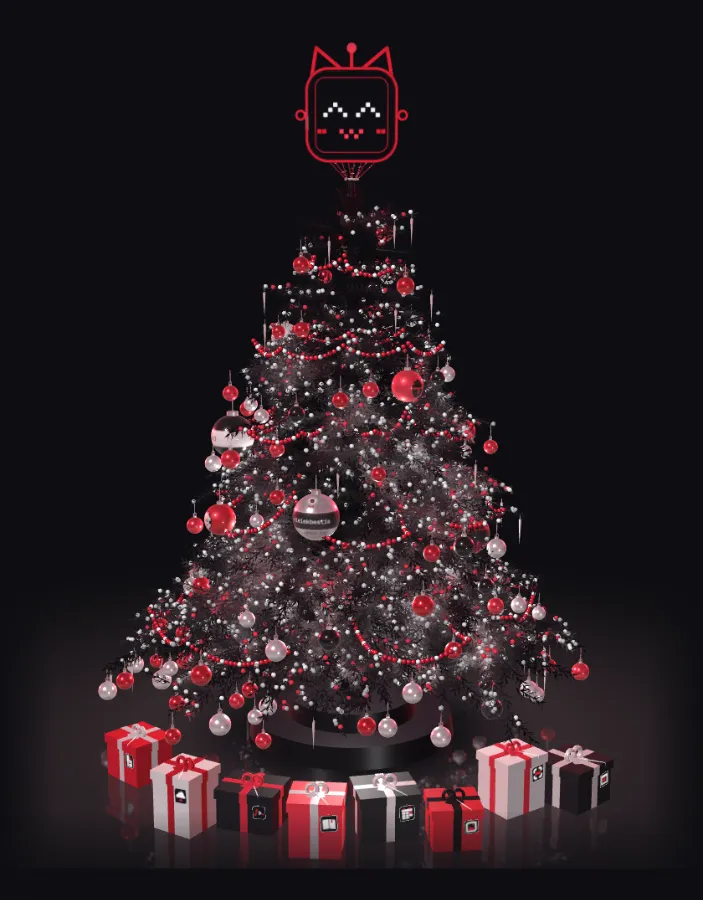
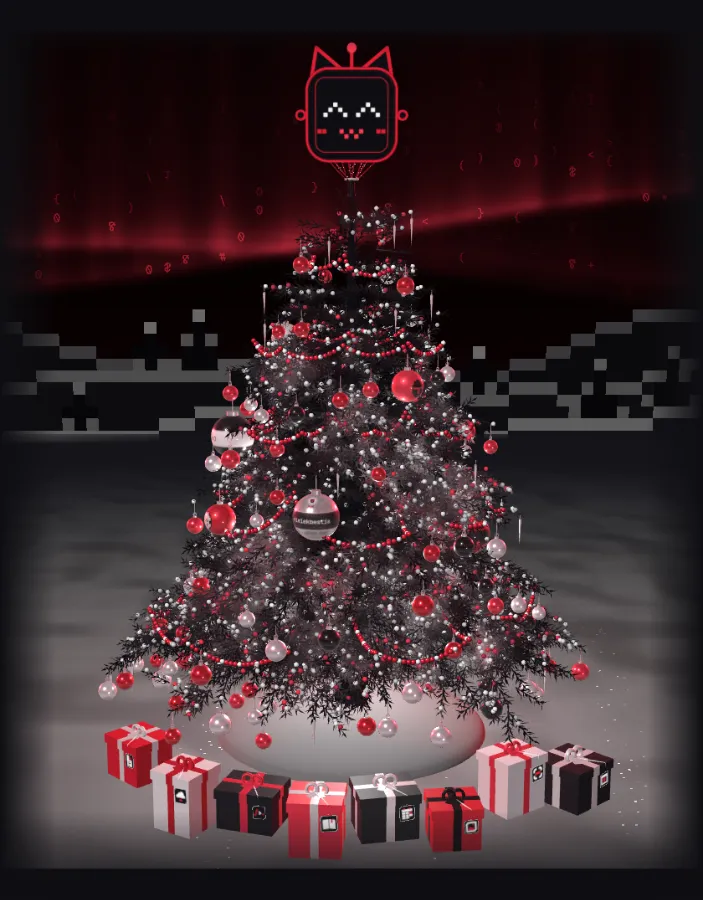
Choinka v12: na zewnatrz, snieg pod choinka, nowa czerwona zorza, obraz na czas ladowania

diff --git a/choinka/choinka.js b/choinka/choinka.js
@@ -135,40 +135,49 @@
       ${GLSL_PALETA}
       varying vec2 vUv; uniform float uT, uAsp, uBoost;
       ${GLSL_SZUM}
+      // v12.1 (19.11 maisa: „zorza meh, zrób lepszą, czerwoną”): prawdziwa zorza polarna zamiast pionowych kolumn.
+      // Trzy wstęgi ciągną się przez całe niebo w łagodnych esach; każda ma ostrą, jasną dolną krawędź i ciało z miękkich
+      // promieni gasnących ku górze. Wzdłuż wstęg płyną fale jasności, w zgięciach fałdu wstęga jaśnieje, miejscami się rwie.
+      float krawedz(float x, float t, float fk){ // dolna krawędź wstęgi k (wysokość na ekranie)
+        return 0.64 + 0.085 * fk + (0.12 - 0.03 * fk) * sin(x * 1.25 + t * 0.045 + fk * 2.1) + 0.04 * sin(x * 3.2 - t * 0.07 + fk * 5.0)
+             + (vn(vec2(x * 0.9 + fk * 9.0, t * 0.03)) - 0.5) * 0.09;
+      }
       float kurtyny(vec2 uv){
         float t = uT, x = uv.x * uAsp, I = 0.0;
-        for(int k=0;k<2;k++){
+        for(int k=0;k<3;k++){
           float fk = float(k);
-          // dolna krawędź kurtyny: fałdy w kilku skalach, płyną powoli
-          float a1 = x * 2.3 + t * 0.09 + fk * 2.0, a2 = x * 5.3 - t * 0.13 + fk * 4.1;
-          float y0 = 0.70 - 0.13 * fk + 0.05 * sin(a1) + 0.022 * sin(a2) + (vn(vec2(x * 1.6 + fk * 5.0, t * 0.05)) - 0.5) * 0.08;
-          float stroma = abs(0.115 * cos(a1) + 0.117 * cos(a2));      // w zgięciu fałdu kurtyna jest widziana z boku: jaśniej
-          float d = uv.y - y0;
-          float kr = smoothstep(-0.012, 0.004, d);
-          // promienie: cienkie pionowe smugi w grupach (odcinki kurtyny), każda innej długości; dryfują powoli w bok
-          float xs = x * (42.0 + fk * 9.0) + fk * 31.0 + 1.5 * sin(x * 1.7 + t * 0.07);
-          float grupa = smoothstep(0.3, 0.75, vn(vec2(x * 2.4 + fk * 7.0, t * 0.06)));
-          float pr = pow(vn(vec2(xs, t * 0.1)), 4.0) * 2.2 * grupa;
-          float dl = 1.8 + 4.5 * vn(vec2(xs * 0.5 + 3.0, fk));                    // długość promienia
-          I += kr * (0.05 * exp(-max(d, 0.0) * 16.0) + pr * (0.6 + stroma * 3.5) * exp(-max(d, 0.0) * (dl + fk))) * (1.0 - 0.5 * fk); // druga, niższa kurtyna słabsza: bez ściany za drzewem
+          float y0 = krawedz(x, t, fk), d = uv.y - y0;
+          float stroma = clamp(abs(krawedz(x + 0.02, t, fk) - y0) * 45.0, 0.0, 1.6); // zgięcie fałdu: kurtyna widziana z boku, jaśniej
+          float dol = smoothstep(-0.018, 0.006, d);                                     // ostra dolna granica
+          float wys = 0.16 + 0.26 * vn(vec2(x * 1.1 + fk * 3.0, t * 0.04));             // wysokość kurtyny zmienia się wzdłuż wstęgi
+          float cialo = exp(-max(d, 0.0) / wys);
+          float kier = mod(fk, 2.0) * 2.0 - 1.0;                                        // sąsiednie wstęgi płyną w przeciwne strony
+          float pr = 0.3 + 0.7 * pow(vn(vec2(x * (24.0 + fk * 7.0) + t * 0.22 * kier, t * 0.12 + fk)), 1.6); // pionowe promienie
+          pr *= 0.7 + 0.3 * vn(vec2(x * 70.0 + fk * 13.0, t * 0.5));
+          float fala = 0.5 + 0.5 * sin(x * 2.1 - t * 0.32 * kier + fk * 1.7 + 2.5 * vn(vec2(x * 0.5, t * 0.05))); // fale jasności wzdłuż wstęgi
+          float sila = (1.0 - 0.3 * fk) * smoothstep(0.25, 0.65, vn(vec2(x * 0.55 + fk * 4.0, t * 0.02)) + 0.2); // wstęga miejscami się rwie
+          float m = dol * sila * (0.35 + 0.65 * fala);
+          I += m * cialo * pr * (1.3 + stroma * 1.2);
+          I += m * exp(-max(d, 0.0) * 45.0) * 0.8;                                     // jasny rąbek dolnej krawędzi
         }
+        I += 0.14 * exp(-abs(uv.y - 0.6) * 6.0);                                       // czerwona łuna nad horyzontem
         return I;
       }
       void main(){
         float I = min(kurtyny(vUv) * (1.0 + uBoost * 1.3), 1.7);          // przycięte: przy głośnej muzyce zorza jaśnieje, ale nie bieleje
-        vec3 c = mix(KREW, HOT, smoothstep(0.25, 0.95, I)); c = mix(c, KOSC, 0.3 * smoothstep(1.0, 1.7, I));
-        gl_FragColor = vec4(c * I * 0.42, I / 1.7);                       // najjaśniej ok. 0,7 krwi/hot: daleko od bieli
+        vec3 c = mix(KREW * 0.55, HOT, smoothstep(0.35, 1.05, I)); c = mix(c, KOSC, 0.32 * smoothstep(1.1, 1.7, I));
+        gl_FragColor = vec4(c * I * 0.66, I / 1.7);                       // jaśniej niż v11, ale rąbek zostaje różowy, nie biały
       }`,
   });
   { const q = new T.Mesh(new T.PlaneGeometry(2, 2), zorzaMat); q.frustumCulled = false; zorzaScena.add(q); }
   const zorzaZnakiMat = new T.ShaderMaterial({ // przebieg 2: pełny ekran, tło z tekstury i spadające znaki
     depthTest: false, depthWrite: false,
-    uniforms: { uT: zorzaMat.uniforms.uT, uRes: { value: new T.Vector2(1280, 800) }, uCell: { value: 22 }, uZ: { value: zorzaRT.texture }, uGlyph: { value: texGlif }, uZnaki: { value: 1 } },
+    uniforms: { uT: zorzaMat.uniforms.uT, uRes: { value: new T.Vector2(1280, 800) }, uCell: { value: 22 }, uZ: { value: zorzaRT.texture }, uGlyph: { value: texGlif }, uZnaki: { value: 1 }, uHero: { value: /hero/.test(location.hash) ? 1 : 0 } },
     vertexShader: "varying vec2 vUv; void main(){ vUv = uv; gl_Position = vec4(position.xy, 1.0, 1.0); }",
     fragmentShader: `
       precision highp float;
       ${GLSL_PALETA}
-      varying vec2 vUv; uniform float uT, uCell, uZnaki; uniform vec2 uRes; uniform sampler2D uZ, uGlyph;
+      varying vec2 vUv; uniform float uT, uCell, uZnaki, uHero; uniform vec2 uRes; uniform sampler2D uZ, uGlyph;
       ${GLSL_SZUM}
       void main(){
         vec3 baza = texture2D(uZ, vUv).rgb;
@@ -179,13 +188,15 @@
         vec2 id = vec2(kol, floor(yy)), f = vec2(fract(vUv.x * cells.x), fract(yy));
         vec2 sc = vec2((kol + 0.5) / cells.x, (id.y + 0.5 - uT * sp) / cells.y); // środek komórki na ekranie
         float Ic = texture2D(uZ, sc).a * 1.7;
-        float jest = step(0.38, h21(id + 7.3)) * uZnaki;              // przerwy w kolumnie: znaki jadą ciągami, nie pełną ścianą
+        float jest = step(0.74, h21(id + 7.3)) * uZnaki * 0.6;        // v12.1: znaki kodu rzadkie i ciche, pierwsza gra zorza
         float gi = floor(h21(id + floor(uT * 0.4 * (0.3 + h21(id.yx)))) * 16.0);
         vec2 gc = vec2(mod(gi, 4.0), floor(gi / 4.0));
         float gl = texture2D(uGlyph, (gc + vec2(f.x, 1.0 - f.y)) / 4.0).r;
         float ga = gl * smoothstep(0.16, 0.6, Ic) * jest;
         vec3 gk = mix(KREW, HOT, smoothstep(0.3, 0.9, Ic)); gk = mix(gk, KOSC, smoothstep(0.9, 1.5, Ic));
-        gl_FragColor = vec4(mix(baza, gk, ga * 0.95), 1.0);
+        // v12 (19.11, na zewnątrz): niebo na cały kadr; w #hero lewa część (h1 strony) przygaszona, żeby zorza i znaki nie szły za tekstem
+        float tlum = mix(1.0, mix(0.22, 1.0, smoothstep(0.3, 0.62, vUv.x)), uHero);
+        gl_FragColor = vec4(mix(baza, gk, ga * 0.95) * tlum, 1.0);
       }`,
   });
   const zorza = new T.Mesh(new T.PlaneGeometry(2, 2), zorzaZnakiMat);
@@ -227,8 +238,7 @@
     for (let r = 0; r < 4; r++) for (let a = r; a < 7 - r; a++) blok(hx + a, hp - 5 - r, r === 0 ? C.kosc : C.krew);
     blok(hx + 2, hp - 3, C.hot); blok(hx + 4, hp - 3, C.hot); blok(hx + 2, hp - 2, C.hot, 0.7); blok(hx + 4, hp - 2, C.hot, 0.7);
     for (let i = 0; i < 26; i++) blok(Math.floor(Rk() * kol), Math.floor(Rk() * wier * 0.55), C.kosc, 0.35 + Rk() * 0.5); // płatki
-    g.fillStyle = C.kosc; g.globalAlpha = 0.9; g.fillRect(0, krajC.height - 3, krajC.width, 3); g.globalAlpha = 1; // śnieg na parapecie, od środka szyby
-  })();
+  })(); // v12: bez parapetu (nie ma już okna)
   const texKraj = new T.CanvasTexture(krajC); texKraj.magFilter = T.NearestFilter; texKraj.minFilter = T.LinearFilter; texKraj.generateMipmaps = false;
   const sciana = new T.Mesh(new T.PlaneGeometry(90, 44), new T.ShaderMaterial({
     uniforms: { uKraj: { value: texKraj }, uOkno: { value: new T.Vector4(OKNO.x0, OKNO.y0, OKNO.x1, OKNO.y1) }, uB: { value: OKNO.B }, uSw: U.uSw },
@@ -258,7 +268,50 @@
       }`,
   }));
   sciana.position.set(0, 22, OKNO.z); sciana.renderOrder = -11; scena.add(sciana);
-  zorzaZnakiMat.depthTest = true; // zorza (z = 1, za wszystkim) rysuje się tylko tam, gdzie ściana nie zapisała głębi: w szybie
+  // v12 (19.11 maisa: „na zewnątrz, śnieg pod choinką”): ściany i okna nie ma; zorza na całym niebie, klockowy krajobraz
+  // stoi daleko na horyzoncie, a pod drzewem leży śnieg (podloga niżej). Ściana zostaje w kodzie wyłączona (API widoczne()).
+  sciana.visible = false; zorzaZnakiMat.depthTest = false;
+  // Horyzont: osobne płótno, niski pas zaśnieżonych pagórków z klocków (192 × 16 bloków), choinki i chatka z oknami; księżyc wyżej na niebie
+  const horC = document.createElement("canvas"); horC.width = 320 * 8; horC.height = 14 * 8;
+  (function horyzontRys() {
+    const g = horC.getContext("2d"), B = 8, kol = 320, wier = 14, Rk = mulberry(11), C = { panel: hex6(KOLOR.panel), noc: hex6(KOLOR.noc), linia: hex6(KOLOR.linia), ink: hex6(KOLOR.ink), kosc: hex6(KOLOR.kosc), krew: hex6(KOLOR.krew), hot: hex6(KOLOR.hot) };
+    const blok = (cx, cy, c, a = 1) => { g.globalAlpha = a; g.fillStyle = c; g.fillRect(cx * B, cy * B, B, B); g.globalAlpha = 1; };
+    const plany = [[0.32, C.panel, 0.16, 11], [0.55, C.noc, 0.12, 7], [0.78, C.linia, 0.07, 5]], wys = [];
+    plany.forEach(([baza, c, amp, okres], pi) => {
+      const h = [];
+      for (let x = 0; x < kol; x++) {
+        h[x] = Math.max(1, Math.floor(wier * (baza - amp * (Math.sin(x / okres + 3 * (pi + 1)) + 0.5 * Math.sin(x / (okres * 0.43) + pi)))));
+        for (let y = h[x]; y < wier; y++) blok(x, y, c);
+        blok(x, h[x], C.kosc, 0.5 + pi * 0.2); // śnieg na grzbiecie
+      }
+      wys.push(h);
+    });
+    const choinka = (x, h, pl) => { const pod = wys[pl][x]; for (let r = 0; r < h; r++) { const sz = Math.floor((h - r) / 2); for (let d = -sz; d <= sz; d++) blok(x + d, pod - 1 - r, C.ink); if (r % 2 === 0 && sz > 0) { blok(x - sz, pod - 1 - r, C.kosc, 0.7); blok(x + sz, pod - 1 - r, C.kosc, 0.7); } } blok(x, pod - 1 - h, C.kosc, 0.8); };
+    for (let i = 2; i < kol; i += 4 + Math.floor(Rk() * 7)) choinka(i, 2 + Math.floor(Rk() * 3), Rk() < 0.5 ? 1 : 2);
+    for (const hx of [52, 214]) { // dwie chatki z zapalonymi oknami
+      const hp = wys[2][hx + 2];
+      for (let a = 0; a < 5; a++) for (let b = 1; b <= 3; b++) blok(hx + a, hp - b, C.noc);
+      for (let r = 0; r < 3; r++) for (let a = r; a < 5 - r; a++) blok(hx + a, hp - 4 - r, r === 0 ? C.kosc : C.krew);
+      blok(hx + 1, hp - 2, C.hot); blok(hx + 3, hp - 2, C.hot);
+    }
+  })();
+  const texHor = new T.CanvasTexture(horC); texHor.magFilter = T.NearestFilter; texHor.minFilter = T.LinearFilter; texHor.generateMipmaps = false;
+  const HORYZ = { z: -38, w: 190 }; // 320 × 14 bloków → 190 × 8,3 j.; dół pod linią śniegu
+  const horyzont = new T.Mesh(new T.PlaneGeometry(HORYZ.w, HORYZ.w * 14 / 320), new T.ShaderMaterial({
+    uniforms: { uKraj: { value: texHor } },
+    vertexShader: "varying vec2 vUv; void main(){ vUv = uv; gl_Position = projectionMatrix * modelViewMatrix * vec4(position, 1.0); }",
+    fragmentShader: `
+      precision highp float;
+      uniform sampler2D uKraj; varying vec2 vUv;
+      void main(){ vec4 k = texture2D(uKraj, vUv); if (k.a < 0.5) discard; gl_FragColor = vec4(k.rgb * 0.42, 1.0); }`, // przygaszony jak miasto w szybie (K5)
+  }));
+  horyzont.position.set(0, HORYZ.w * 14 / 320 * 0.5 - 1.6, HORYZ.z); horyzont.renderOrder = -9; scena.add(horyzont);
+  // księżyc z klocków na niebie (ten sam co w dawnym oknie): mała płaszczyzna daleko, po lewej
+  const ksC = document.createElement("canvas"); ksC.width = ksC.height = 40;
+  { const g = ksC.getContext("2d"); for (let a = -2; a <= 2; a++) for (let b = -2; b <= 2; b++) if (a * a + b * b <= 5) { g.fillStyle = hex6((a === -1 && b === 0) || (a === 1 && b === 1) ? KOLOR.linia : KOLOR.kosc); g.fillRect((a + 2) * 8, (b + 2) * 8, 8, 8); } }
+  const texKs = new T.CanvasTexture(ksC); texKs.magFilter = T.NearestFilter;
+  const ksiezyc = new T.Mesh(new T.PlaneGeometry(3.2, 3.2), new T.MeshBasicMaterial({ map: texKs, transparent: true, alphaTest: 0.5, color: new T.Color(KOLOR.kosc).multiplyScalar(0.7), depthWrite: false }));
+  ksiezyc.position.set(-27, 13.5, HORYZ.z + 0.5); ksiezyc.renderOrder = -9; scena.add(ksiezyc);
 
   // ================= ŚRODOWISKO DLA ODBIĆ BOMBEK: budowane niżej z rozkładu żarówek i pasa zorzy (budujOtoczenie) =================
   const pmrem = new T.PMREMGenerator(renderer);
@@ -581,9 +634,11 @@
   const pien = new T.Mesh(new T.CylinderGeometry(0.04, 0.36, WYS - 0.7, 12), new T.MeshBasicMaterial({ color: KOLOR.ink }));
   pien.position.y = (WYS - 0.7) / 2 + 0.4; choinka.add(pien);
   // podest zamiast doniczki: dwa niskie stopnie, ink z połyskiem
-  const matPodest = new T.MeshStandardMaterial({ color: KOLOR.panel, roughness: 0.35, metalness: 0.2, envMap: envTex, envMapIntensity: 0.35 });
-  const st1 = new T.Mesh(new T.CylinderGeometry(2.0, 2.06, 0.42, 72), matPodest); st1.position.y = 0.21; scena.add(st1);
-  const st2 = new T.Mesh(new T.CylinderGeometry(1.25, 1.3, 0.36, 72), matPodest); st2.position.y = 0.6; scena.add(st2);
+  // v12: na zewnątrz podest to zaspa śniegu (matowa kość, bez połysku)
+  const matPodest = new T.MeshStandardMaterial({ color: new T.Color(KOLOR.kosc).multiplyScalar(0.3), roughness: 1, metalness: 0, envMap: envTex, envMapIntensity: 0.08 });
+  // zaspa pod pniem: spłaszczona półkula (stopni podestu nie ma, ale nazwy zostają dla API i testów)
+  const st1 = new T.Mesh(new T.SphereGeometry(2.7, 64, 16, 0, Math.PI * 2, 0, Math.PI / 2), matPodest); st1.scale.y = 0.24; scena.add(st1);
+  const st2 = new T.Object3D(); scena.add(st2);
   // podłoga: bez linii obwodu, wtapia się w tło; światło choinki jako plama na powierzchni.
   // v7: wypolerowana. Odbicie drzewa z osobnego przebiegu (kamera lustrzana, ułamek rozdzielczości, uproszczone drzewo),
   // odbicie zorzy liczone wprost: kierunek odbity od podłogi rzutowany na ekran i odczytany z tekstury zorzy. Bez rozmycia.
@@ -591,29 +646,40 @@
   const podlogaMat = new T.ShaderMaterial({
     transparent: true, depthWrite: false,
     uniforms: { uSw: U.uSw, uPoziom: U.uPoziom, uPrez: { value: Array.from({ length: 8 }, () => new T.Vector3(0, 0, 0)) },
-      uOdb: { value: odbRT.texture }, uOdbOn: { value: 1 }, uZ: { value: zorzaRT.texture }, uRes: { value: new T.Vector2(1280, 800) }, uPV: { value: new T.Matrix4() } },
+      uOdb: { value: odbRT.texture }, uOdbOn: { value: 1 }, uZ: { value: zorzaRT.texture }, uRes: { value: new T.Vector2(1280, 800) }, uPV: { value: new T.Matrix4() }, uHero: { value: /hero/.test(location.hash) ? 1 : 0 } },
     vertexShader: "varying vec3 vW; void main(){ vec4 wp = modelMatrix * vec4(position, 1.0); vW = wp.xyz; gl_Position = projectionMatrix * viewMatrix * wp; }",
     fragmentShader: `
       precision highp float;
       ${GLSL_PALETA}
-      uniform float uSw, uPoziom, uOdbOn; uniform vec3 uPrez[8]; uniform sampler2D uOdb, uZ; uniform vec2 uRes; uniform mat4 uPV; varying vec3 vW;
+      uniform float uSw, uPoziom, uOdbOn, uHero; uniform vec3 uPrez[8]; uniform sampler2D uOdb, uZ; uniform vec2 uRes; uniform mat4 uPV; varying vec3 vW;
+      ${GLSL_SZUM}
+      // v12 (19.11 maisa): śnieg zamiast wypolerowanych paneli. Matowy (bez odbicia), zaspy z szumu oświetlone z boku światłem klucza,
+      // plama ciepłego światła choinki, iskierki kryształków migające przy obrocie kamery, w dali gaśnie w noc pod horyzontem.
+      float zaspa(vec2 p){ return vn(p * 0.22) * 0.65 + vn(p * 0.7 + 7.0) * 0.35; } // tylko duże, miękkie fale: śnieg, nie żwir
       void main(){
         float r = length(vW.xz);
-        float plama = uSw * (0.85 + 0.6 * uPoziom) * exp(-r * 0.2) * smoothstep(1.2, 4.6, r);
-        vec3 c = mix(INK * 0.8, mix(KOSC, HOT, 0.3), plama * 0.5);
+        vec2 e = vec2(0.15, 0.0);
+        float h0 = zaspa(vW.xz), gx = zaspa(vW.xz + e.xy) - h0, gz = zaspa(vW.xz + e.yx) - h0;
+        vec3 N = normalize(vec3(-gx * 5.0, e.x, -gz * 5.0));                         // nachylenie zasp: miękkie cienie bez geometrii
+        float ks = 0.2 + 0.12 * clamp(dot(N, normalize(vec3(-0.45, 0.8, 0.4))), 0.0, 1.0); // księżyc z lewej góry
+        ks *= 0.97 + 0.06 * h21(floor(vW.xz * 40.0));                                 // ziarno śniegu: ledwie widoczne
+        float plama = uSw * (0.85 + 0.6 * uPoziom) * exp(-r * 0.19);
+        vec3 c = KOSC * ks + mix(KOSC, HOT, 0.22) * plama * 0.7;
         vec3 V = normalize(cameraPosition - vW);
-        float fr = (0.2 + 0.55 * pow(1.0 - V.y, 3.0)) * (1.0 - smoothstep(3.5, 11.0, r)); // połysk: mocniej pod ostrym kątem, gaśnie ku brzegom
-        vec2 sc = gl_FragCoord.xy / uRes;
-        c += texture2D(uOdb, vec2(1.0 - sc.x, sc.y)).rgb * fr * uOdbOn;                 // kamera lustrzana widzi świat odwrócony w poziomie
-        vec4 kz = uPV * vec4(reflect(-V, vec3(0.0, 1.0, 0.0)), 0.0);                   // kierunek odbity: punkt w nieskończoności, jak zorza
-        if (kz.w > 0.0) { vec2 uz = kz.xy / kz.w * 0.5 + 0.5; c += texture2D(uZ, clamp(uz, 0.0, 1.0)).rgb * fr * 0.9 * (1.0 - smoothstep(0.98, 1.15, uz.y)); }
-        float zl = 0.0; // otwarte prezenty świecą na podłogę wokół siebie (uPrez: x, z, moc)
+        vec2 kom = floor(vW.xz * 22.0); float los = h21(kom);                        // kryształki: rzadkie, migają zależnie od kierunku patrzenia
+        float blysk = step(0.986, los) * pow(max(0.0, sin(dot(V, vec3(13.0, 7.0, 11.0)) * 3.0 + los * 60.0)), 18.0);
+        c += KOSC * blysk * (0.25 + plama) * (1.0 - smoothstep(4.0, 12.0, r));
+        float zl = 0.0; // otwarte prezenty świecą na śnieg wokół siebie (uPrez: x, z, moc)
         for (int i = 0; i < 8; i++) { vec2 d = vW.xz - uPrez[i].xy; zl += uPrez[i].z * exp(-dot(d, d) * 0.55); }
         c = mix(c, ZLOTO, min(zl, 1.0) * 0.42);
-        gl_FragColor = vec4(c, 1.0 - smoothstep(8.5, 15.5, r));
+        c = mix(c, INK * 1.4, smoothstep(9.0, 34.0, r));                              // dal: śnieg gaśnie w noc pod pagórkami
+        // #hero: pod tekstem strony śnieg przygaszony (kontrast przycisków strony ≥ 4,5:1): szeroki kadr = lewa część, wąski = dół
+        vec2 sp = gl_FragCoord.xy / uRes; float tl = uRes.x / uRes.y > 1.35 ? smoothstep(0.4, 0.62, sp.x) : smoothstep(0.3, 0.55, sp.y);
+        c *= mix(1.0, mix(0.3, 1.0, tl), uHero);
+        gl_FragColor = vec4(c, 1.0 - smoothstep(36.0, 44.0, r));
       }`,
   });
-  const podloga = new T.Mesh(new T.CircleGeometry(16, 96), podlogaMat);
+  const podloga = new T.Mesh(new T.CircleGeometry(46, 128), podlogaMat);
   podloga.rotation.x = -Math.PI / 2; podloga.renderOrder = -5; scena.add(podloga);
 
   // ---------- prezenty pod choinką (v5.2, decyzja maisy 16.11): każdy prezent to produkt z cybersora.pl ----------
@@ -2195,7 +2261,7 @@
   const kamOdb = new T.PerspectiveCamera(); kamOdb.matrixAutoUpdate = false; kamOdb.matrixWorldAutoUpdate = false;
   const LUSTRO = new T.Matrix4().makeScale(1, -1, 1), ODWR = new T.Matrix4().makeScale(-1, 1, 1);
   const BEZ_ODB = [zorza, snieg, podloga, drobiny, sciana, sznurki9]; // v9: ściana poza odbiciem (stała jasność na podłodze zagłuszała gaśnięcie żarówek, etap4 test 1; i jeden przebieg mniej)
-  let odbOn = true, zorzaWid = true;
+  let odbOn = false, zorzaWid = true; // v12: śnieg jest matowy, przebieg odbicia wyłączony (oszczędza ~1 ms klatki)
   function odbicieKlatka() {
     const Q = POZIOMY[poziom], on = odbOn && Q.odb > 0; podlogaMat.uniforms.uOdbOn.value = on ? 1 : 0; if (!on) return;
     kamOdb.projectionMatrix.copy(kamera.projectionMatrix); kamOdb.projectionMatrix.elements[8] *= -1; kamOdb.projectionMatrixInverse.copy(kamOdb.projectionMatrix).invert();
@@ -2386,7 +2452,7 @@
     },
     tlo: { // v9 (T1): ściana i okno; prostokąt szyby na ekranie, wyłącznik ściany
       okno: () => { const hb = host.getBoundingClientRect(), xs = [], ys = []; for (const x of [OKNO.x0, OKNO.x1]) for (const y of [OKNO.y0, OKNO.y1]) { wek.set(x, y, OKNO.z).project(kamera); xs.push(((wek.x + 1) / 2) * hb.width + hb.left); ys.push(((1 - wek.y) / 2) * hb.height + hb.top); } return { x: Math.min(...xs), y: Math.min(...ys), w: Math.max(...xs) - Math.min(...xs), h: Math.max(...ys) - Math.min(...ys), B: OKNO.B }; },
-      widoczne: (tak) => { sciana.visible = tak; zorzaZnakiMat.depthTest = tak; },
+      widoczne: (tak) => { horyzont.visible = tak; ksiezyc.visible = tak; }, // v12: tło = horyzont i księżyc (ściany nie ma)
       plotno: () => krajC.toDataURL(),
     },
     fokus: () => (fokusP >= 0 ? prezenty[fokusP].prod.nazwa : null),

diff --git a/index.html b/index.html
@@ -1031,6 +1031,15 @@
   html.choinka-sezon:not([data-route]) .bg > *,
   html.choinka-sezon[data-route="start"] .bg > *{visibility:hidden;}
   .hero__choinka.gotowa iframe{opacity:1;}
+  /* v12 (19.11): zanim scena 3D wstanie, w jej miejscu stoi obraz tej samej choinki (zapas.webp: drzewo, snieg, zorza).
+     Szeroki kadr sceny: drzewo w prawych 54% (srodek 73% szerokosci), od 76 px do dolu minus 20 px (wolnyKadr w scenie). */
+  @media (min-aspect-ratio:135/100){
+    .hero__choinka:not(.hero__choinka--obraz)::before{
+      content:"";position:absolute;left:73%;top:76px;height:calc(100% - 96px);aspect-ratio:703/900;transform:translateX(-50%);
+      background:url(choinka/zapas.webp) center/contain no-repeat;pointer-events:none;
+    }
+    .hero__choinka iframe{position:relative;}
+  }
   @media (prefers-reduced-motion:reduce){.hero__choinka iframe{transition:none;}}
   .choinka-sezon .hero--start .hero__rail,
   .choinka-sezon .hero--start .hint{display:none;}
@@ -2692,7 +2701,7 @@
       <div class="hint">rusz kursorem po mapie &rarr;</div>
     </div>
     <!-- CHOINKA (18.11): w sezonie 1.12–6.01 wstawia scenę jako tło tego hero; poza sezonem nic nie pobiera -->
-    <script src="choinka-sezon.js?v=20261119d"></script>
+    <script src="choinka-sezon.js?v=20261119e"></script>
 
     <!-- CO ZROBILIŚMY (ov10). 02.11 makieta 3HxqCoRS5HUQmZWF2ragus, 03.11 przeniesione z Oferty na Start
          w miejsce manifestu, pasa projektów i scen Pycodemath (pliki pycodemath-sceny\ zostają). Jeden egzemplarz.
